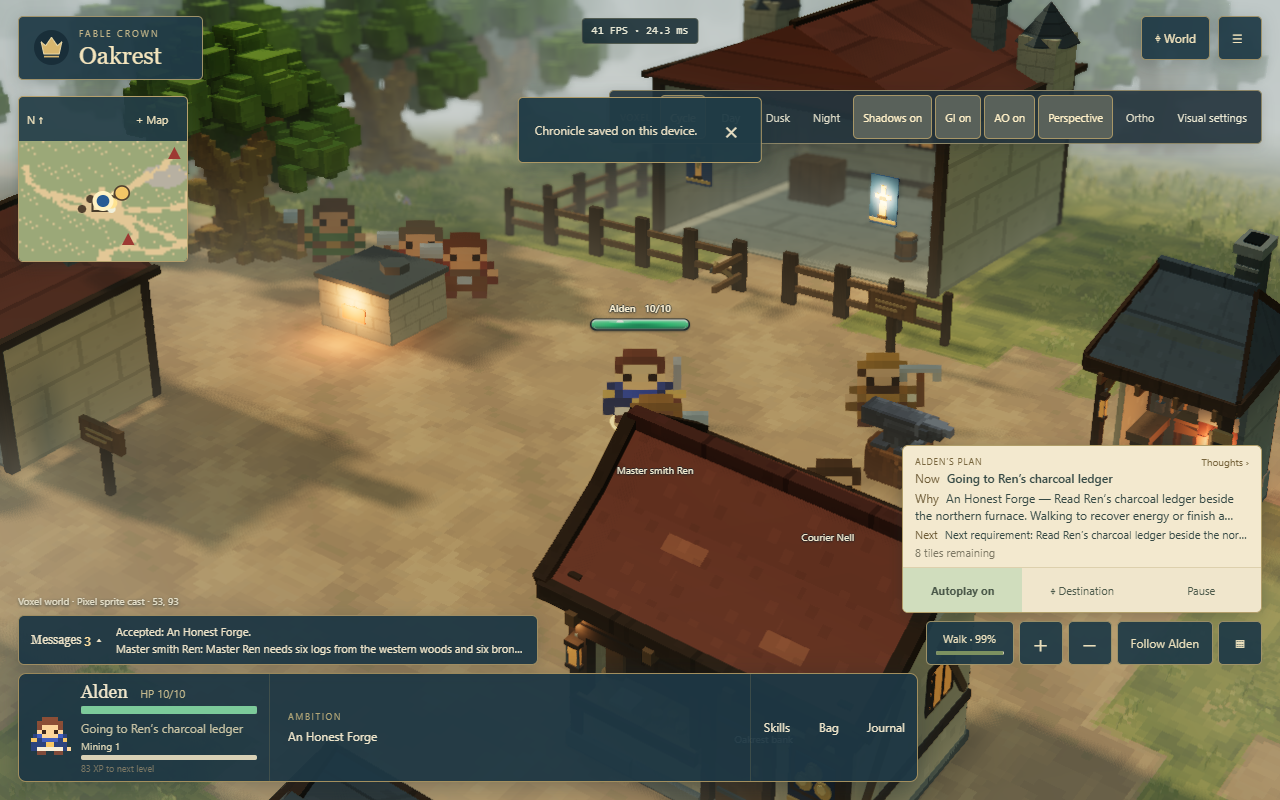
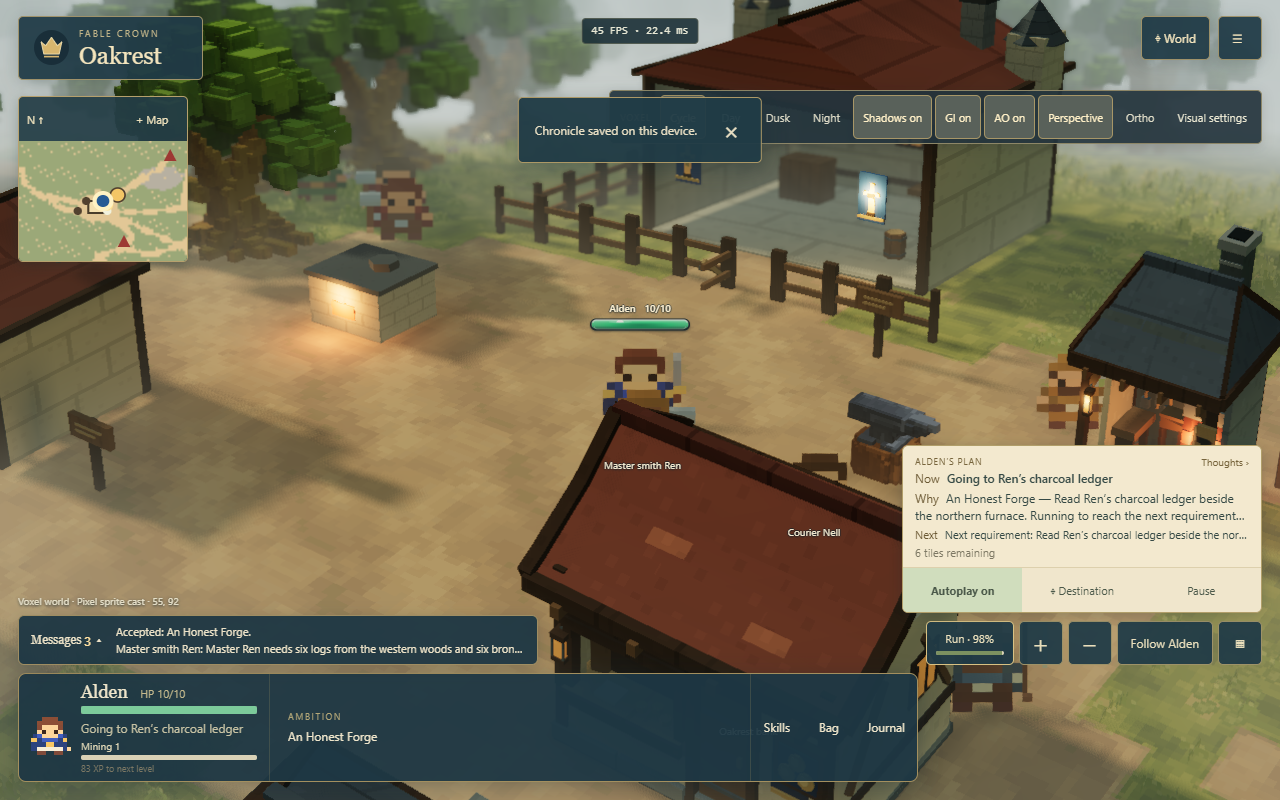
Record live FPS visibility verification [skip ci]

diff --git a/docs/WORKFLOW_MEMORY.md b/docs/WORKFLOW_MEMORY.md
@@ -135,7 +135,7 @@
 
 - Final CI boundary: test:release has2non-GPU worker/save/offline/mobile smoke cases. GPU interactions and visual/performance suites are local; verify real public WebGL after publish.
 
-- Current live release6bec969 / Actions41234875066 verified2026-10-31;0590159679cf. Canonical integrated checkout tmp/release-publication. CI2non-GPU smoke cases; visual/GPU suites local. Wait for SW activation before upgrade reload; hold save fixtures via real Pause/Save.
+- Current live releasee8566e7 / Actions41236491974 verified2026-10-31;a8342481e32d. Canonical integrated checkout tmp/release-publication. CI2non-GPU smoke cases; visual/GPU suites local. Wait for SW activation before upgrade reload; hold save fixtures via real Pause/Save.
 
 - Async rendering: voxel assets decode in a worker; runtime LOD stages at2ms/32768cells and commits≤1replacement/frame; started visible jobs finish first, with stable4m batches,6m prefetch and140ms opaque dither swaps. GI slices at~4ms; final GPU uploads remain synchronous. Keep identical capped levels shared.
 - Streaming benchmark: scripts/benchmark-streaming.mjs LABEL; BENCH_DIST selects an isolated original. Run original→changed→original serially; see performance/async-streaming. Pass is integrated and published from tmp/release-publication. New local GPU regression: rpg-voxel-streaming.spec.ts; mobile controls use Tools.

diff --git a/docs/PROGRESS.md b/docs/PROGRESS.md
@@ -599,3 +599,5 @@ Published full-bake2842eae plus cache-fix6bec969; Actions41234875066 passed524un
 
 ### Always-visible FPS — 2026-10-31
 Removed mobile meter hiding; fixed safe-area position above panels and reserved space above tools. Existing FPS/frame-ms sampling unchanged. Type/build/dist gates and3localbrowser checks pass (desktop,320/390portrait,667/844landscape, tools/settings/inventory and noHUD during preparation); HUDcoverage remains<25% with no overlap. Publication follows.
+
+Publishede8566e7 / Actions41236491974 passed all CI gates (524units +2release cases). Actualpublica8342481e32d confirms FPS/frame-ms visible on desktop/portrait/landscape/offline; zero page/console/GL/request/external errors. Existing source/asset/simulation contracts unchanged.
